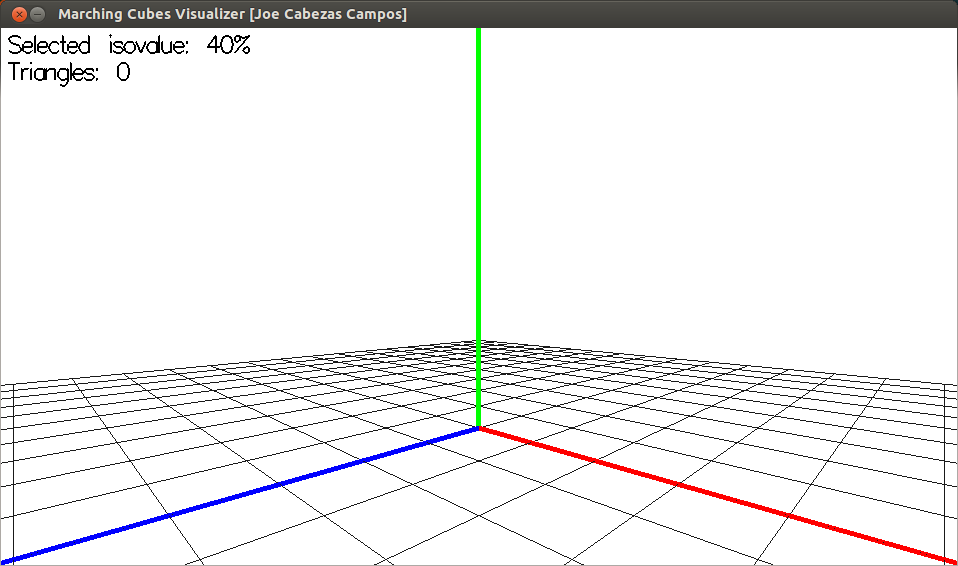
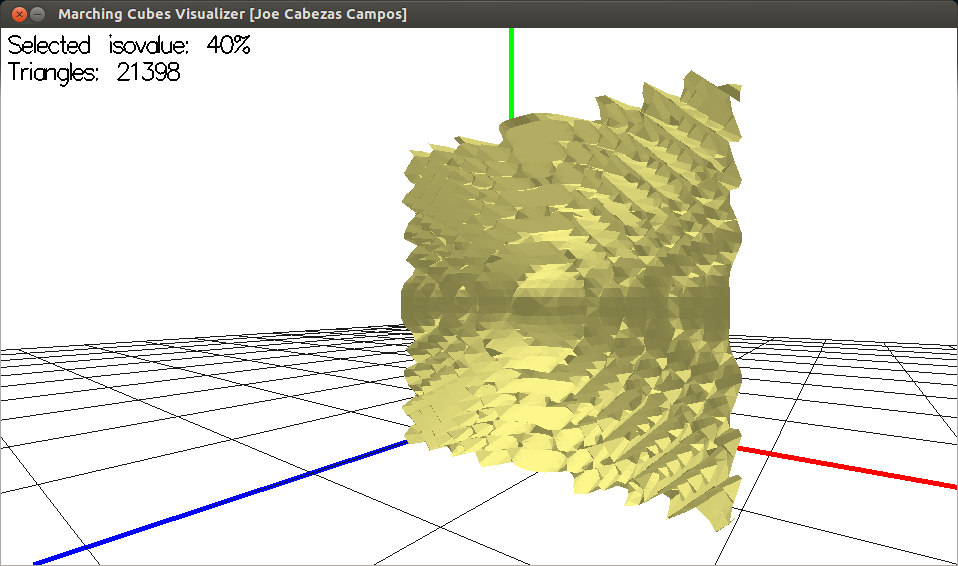
update in interface image, also, some tuning in pagebreaks in order to reallocate images with new borders

diff --git a/include/Implementacion/DatosDeEntrada.tex b/include/Implementacion/DatosDeEntrada.tex
@@ -34,7 +34,7 @@ Dependiendo de la resolución escogida, es posible que algunos cubos tengan algu
 
 Otra forma de entregar datos de entrada es teniendo cortes de nivel de un cuerpo tridimensional, un ejemplo de esto son las imágenes obtenidas de los exámenes de resonancia magnética. Cada imagen representa un corte transversal del cuerpo estudiado, como el que se mostró en la figura \ref{f:flujoDeTrabajo:mri_joe}.
 
-Éstas imágenes, en conjunto, describen un cuerpo en tres dimensiones, mostrando con detalle sus componentes internos. Cada imágen está compuesta por una matriz de pixeles en una escala de grises, dependiendo de la profundidad de color, pueden ser de 256 valores (8 bits) o de 65536 valores (16 bits) diferentes, con estas imágenes se puede construir un espacio que puede servir como entrada para el algoritmo de \emph{MarchingCubes}, una forma de hacerlo es usando las coordenadas en 2 dimensiones del pixel en una imagen y usando como valor $z$, el número que representa la imagen dentro del cuerpo. Una vez identificado el pixel en un espacio tridimensional, el valor de éste pixel está determinado por la intensidad de color del pixel, como se muestra en la ecuación \ref{ch:implementacion:sec:datosDeEntrada:ec3}:
+Éstas imágenes, en conjunto, describen un cuerpo en tres dimensiones, mostrando con detalle sus componentes internos. Cada imágen está compuesta por una matriz de pixeles en una escala de grises, dependiendo de la profundidad de color, pueden ser de 256 valores (8 bits) o de 65536 valores (16 bits) diferentes, con estas imágenes se puede construir un espacio que puede servir como entrada para el algoritmo de \emph{MarchingCubes}, una forma de hacerlo es usando las coordenadas en 2 dimensiones del pixel en una imagen y usando como valor $z$, el número que representa la imagen dentro del cuerpo. Una vez identificado el pixel en un espacio tridimensional, el valor de éste pixel está determinado por la intensidad de color del pixel, como se muestra en el vector \ref{ch:implementacion:sec:datosDeEntrada:ec3}:
 
 \begin{equation}
 \label{ch:implementacion:sec:datosDeEntrada:ec3}
@@ -59,7 +59,6 @@ Si se aplica \emph{Marching Cubes} en este caso usando un valor mínimo de $100$
 	\label{f:implementacion:images_minimal_cube}
 \end{figure}
 
-\pagebreak
 En esta implementación, se usó este último método para obtener una nube de puntos para poder extraer una superficie utilizando \emph{Marching Cubes}.
 
 %TODO: poner link al glosario, en 'dataset'
@@ -143,8 +142,11 @@ El resultado de aplicar \emph{Marching Cubes} a este \emph{dataset} se muestra e
 
 \begin{figure}[hbt]
 	\centering
-	\includegraphics[width=0.95\textwidth]
-	{images/results/ImSphRad100/screenshot_40.png}
+		\fbox
+		{
+			\includegraphics[width=0.95\textwidth]
+			{images/results/ImSphRad100/screenshot_40.png}
+		}
 	\caption{La superficie extraida usando \emph{Marching Cubes} sobre un dataset que describe una esfera.}
 	\label{f:implementacion:ImSphRad100:screenshot_40}
 \end{figure}

diff --git a/include/Implementacion/EstructurasDeDatos.tex b/include/Implementacion/EstructurasDeDatos.tex
@@ -41,7 +41,7 @@ Usando la misma estrategia que con el \emph{cubeindex} existen 4096 $(2^{12})$ c
 
 La \emph{edgeTable} es un \emph{array} (arreglo) diseñado para asociar un \emph{cubeindex} con quellas aristas que son intersectadas. Este \emph{array} consta de 256 números (uno por cada caso o cada \emph{cubeindex}) de 12 bits, un bit para cada una de las 12 aristas del cubo en cuestión por las cuales pasa la superficie.
 
-Para entender mejor, se supone el ejemplo de la figura \ref{f:ch:implementacion:sec:CubeIndex:edgeTable:example}.
+Para entender mejor, se supone el ejemplo de la figura \ref{f:ch:implementacion:sec:CubeIndex:edgeTable:vertex_0}.
 
 \begin{figure}[hbt]
 	\centering
@@ -50,14 +50,14 @@ Para entender mejor, se supone el ejemplo de la figura \ref{f:ch:implementacion:
 		\includegraphics[width=0.3\textwidth]{images/implementacion/vertex_0.pdf}
 	}
 	\caption{Un cubo cuyo vértice $0$ es el único marcado.}
-	\label{f:ch:implementacion:sec:CubeIndex:edgeTable:example}
+	\label{f:ch:implementacion:sec:CubeIndex:edgeTable:vertex_0}
 \end{figure}
 
 En este ejemplo, sólamente el vértice $0$, ha sido marcado como interno, luego, el \emph{cubeIndex} es $1_{10} = 0000 \; 0001_{2}$, dado esto, las aristas $0$, $3$ y $8$ serán eventualmente atravesadas por la superficie, por lo tanto: $edgeTable[1] = 0x109$
 
 Lo cual tiene un valor equivalente a: $109_{16} = 265_{10} = 0001 \; 0000 \; 1001_{2}$, lo que indica, viendo la notacion binaria, que las aristas $0$, $3$ y $8$ son las que serán atravesadas.
 
-Otro ejemplo, se supone el caso de la figura \ref{f:ch:implementacion:sec:CubeIndex:edgeTable:example}
+Otro ejemplo, se supone el caso de la figura \ref{f:ch:implementacion:sec:CubeIndex:edgeTable:vertex_1}
 
 \begin{figure}[hbt]
 	\centering
@@ -66,7 +66,7 @@ Otro ejemplo, se supone el caso de la figura \ref{f:ch:implementacion:sec:CubeIn
 		\includegraphics[width=0.3\textwidth]{images/implementacion/vertex_1.pdf}
 	}
 	\caption{Un cubo cuyos vértices $5$ y $6$ son los únicos marcados.}
-	\label{f:ch:implementacion:sec:CubeIndex:edgeTable:example}
+	\label{f:ch:implementacion:sec:CubeIndex:edgeTable:vertex_1}
 \end{figure}
 
 En este caso, los vértices $5$ y $6$ han sido marcados como internos, luego, el \emph{cubeIndex} debe ser: $96_{10} = 0110 \; 0000_{2}$, por lo tanto la superficie debería atravesar las aristas $4$, $9$, $6$ y $10$, para que asi, una superficie deje a estos vértices separados del resto.

diff --git a/include/propuesta/flujo.tex b/include/propuesta/flujo.tex
@@ -186,7 +186,10 @@ Esta investigación tiene su mayor enfoque en este punto ya que es en este paso 
 
 \begin{figure}[h]
 \centering
-	\includegraphics[width=1.0\textwidth]{images/visualizer/visualizer_1.png}
+	\fbox
+	{
+		\includegraphics[width=1.0\textwidth]{images/visualizer/visualizer_1.png}
+	}
 \caption{Programa visualizador de superficies generadas usando \emph{Marching Cubes}}
 \label{f:flujoDeTrabajo:visualizer_1}
 \end{figure}
@@ -224,6 +227,7 @@ en el ejemplo anterior, se listaron los únicos 10 archivos dentro de un directo
 ./MemoriaJoeCabezasCode $(ls -1 pgm/*)
 \end{verbatim}
 
+\newpage
 Lo que es equivalente a hacer:
 
 \begin{verbatim}
@@ -248,8 +252,8 @@ La interfaz es simple, el programa muestra en su completitud una ventana OpenGL\
 
 \begin{figure}[h]
 \centering
-	\includegraphics[width=0.5\textwidth]{images/visualizer/interface.png}
-\caption{Panel de estado, con un isovalor del 40\%, se crea una superficie que esta formada por $172416$ triángulos.}
+	\includegraphics[width=0.7\textwidth]{images/visualizer/interface.png}
+\caption{Panel de estado, con un isovalor del 40\%, se crea una superficie que esta formada por $21398$ triángulos.}
 \label{f:flujoDeTrabajo:interface}
 \end{figure}
 

diff --git a/include/Abstract.tex b/include/Abstract.tex
@@ -175,6 +175,7 @@ tres dimensiones, en este caso, el dominio es un espacio tridimensional, en el c
 cuerpo al que se desea extraer su superficie. Luego, el espacio es dividido en regiones uniformes
 (cubos), por los cuales la superficie del objeto corta las aristas de estos cubos.
 
+\newpage
 \subsection{Consideraciones Geométricas}
 \label{subsec:marchingCubes:consideracionesGeometricas}
 
@@ -225,6 +226,7 @@ Finalmente las quince familias de posibles casos son los que se describen en la 
 \label{f:estadoDelArte:Shu95adaptivemarching_1}
 \end{figure}
 
+\newpage
 \subsection{Procedimiento}
 \label{subsec:marchingCubes:procedimiento}
 
